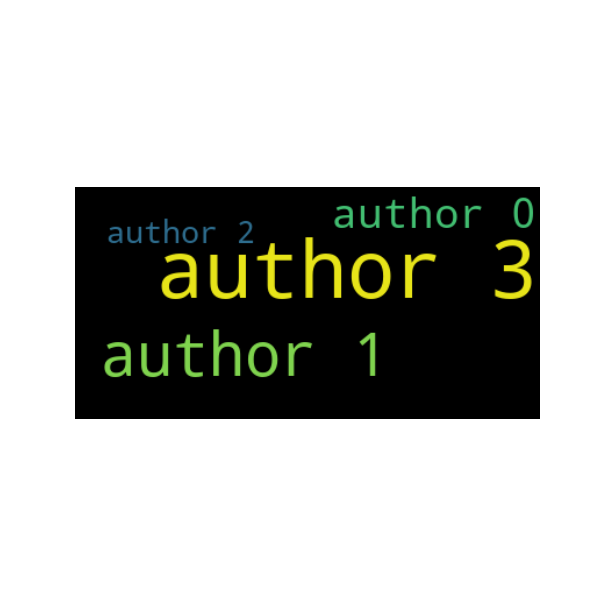
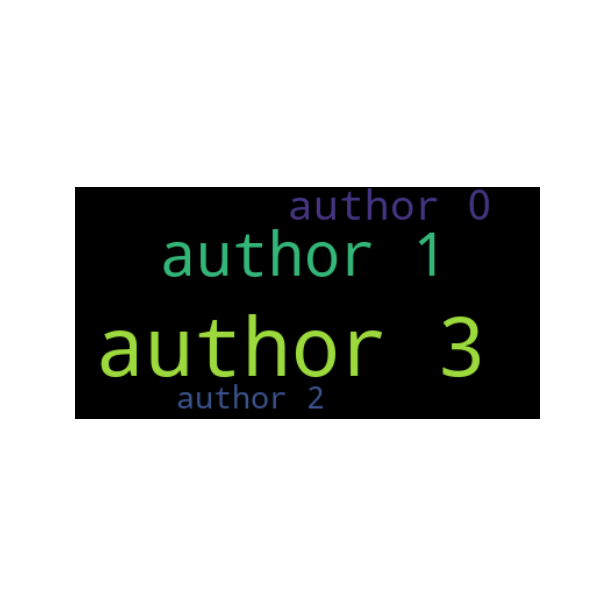
correlation

Changed region(s): [[0.15, 0.3, 0.9, 0.69], [0.72, 0.51, 0.81, 0.63]]

diff --git a/techminer/dataframe.py b/techminer/dataframe.py
@@ -2446,10 +2446,10 @@ class DataFrame(pd.DataFrame):
 
     def corr(
         self,
-        column_IDX,
-        column_COL=None,
-        sep_IDX=None,
-        sep_COL=None,
+        column,
+        by=None,
+        sep=None,
+        sep_by=None,
         method="pearson",
         as_matrix=True,
         minmax=None,
@@ -2519,62 +2519,88 @@ class DataFrame(pd.DataFrame):
 
 
         >>> DataFrame(df).corr('Authors', 'Author Keywords')
-              a         b         c         d
-        A  0.50 -0.632456 -0.316228 -0.316228
-        B -0.25  0.316228 -0.316228 -0.316228
-        C -0.25  0.316228  0.632456  0.632456
-        D -0.25  0.316228 -0.316228  0.632456
+                  A         B         C         D
+        A  1.000000  1.000000  0.500000  0.707107
+        B  1.000000  1.000000  0.500000  0.707107
+        C  0.500000  0.500000  1.000000  0.707107
+        D  0.707107  0.707107  0.707107  1.000000
 
         >>> DataFrame(df).corr('Authors', 'Author Keywords', minmax=(0.45, 0.8))
-             a         c         d
-        A  0.5  0.000000  0.000000
-        C  0.0  0.632456  0.632456
-        D  0.0  0.000000  0.632456
+                  A         B         C         D
+        A  0.000000  0.000000  0.500000  0.707107
+        B  0.000000  0.000000  0.500000  0.707107
+        C  0.500000  0.500000  0.000000  0.707107
+        D  0.707107  0.707107  0.707107  0.000000
 
         >>> DataFrame(df).corr('Authors', 'Author Keywords', as_matrix=False)
            Authors Author Keywords     value
-        0        A               a  0.500000
-        1        B               a -0.250000
-        2        C               a -0.250000
-        3        D               a -0.250000
-        4        A               b -0.632456
-        5        B               b  0.316228
-        6        C               b  0.316228
-        7        D               b  0.316228
-        8        A               c -0.316228
-        9        B               c -0.316228
-        10       C               c  0.632456
-        11       D               c -0.316228
-        12       A               d -0.316228
-        13       B               d -0.316228
-        14       C               d  0.632456
-        15       D               d  0.632456
+        0        A               A  1.000000
+        1        B               A  1.000000
+        2        C               A  0.500000
+        3        D               A  0.707107
+        4        A               B  1.000000
+        5        B               B  1.000000
+        6        C               B  0.500000
+        7        D               B  0.707107
+        8        A               C  0.500000
+        9        B               C  0.500000
+        10       C               C  1.000000
+        11       D               C  0.707107
+        12       A               D  0.707107
+        13       B               D  0.707107
+        14       C               D  0.707107
+        15       D               D  1.000000
 
         """
-        if column_IDX == column_COL:
+        if column == by:
             return self.autocorr(
-                column=column_IDX,
-                sep=sep_IDX,
+                column=column,
+                sep=sep,
                 method=method,
                 as_matrix=as_matrix,
                 minmax=minmax,
             )
-        tfm_r = self.compute_tfm(column=column_IDX, sep=sep_IDX)
-        tfm_c = self.compute_tfm(column=column_COL, sep=sep_COL)
-        result = pd.DataFrame(
-            [
-                [tfm_r[row].corr(tfm_c[col]) for row in tfm_r.columns]
-                for col in tfm_c.columns
-            ],
-            columns=tfm_c.columns,
-            index=tfm_r.columns,
+
+        tfm = self.co_occurrence(
+            column_IDX=by,
+            column_COL=column,
+            sep_IDX=sep_by,
+            sep_COL=sep,
+            as_matrix=True,
+            minmax=None,
         )
+
+        tfm = tfm.applymap(lambda x: min(1.0, x))
+
+        result = pd.DataFrame(0.0, columns=tfm.columns, index=tfm.columns)
+        for term in tfm.columns:
+            result.at[term, term] = 1.0
+        for i in range(len(tfm.columns) - 1):
+            for j in range(i + 1, len(tfm.columns)):
+                d = pd.DataFrame({"x": tfm[tfm.columns[i]], "y": tfm[tfm.columns[j]]})
+                d = d[(d.x != 0) | (d.y != 0)]
+
+                if len(d) != 0 and sum(d.x * d.y) > 0:
+                    r = relationship(d.x, d.y)
+                    result.at[tfm.columns[i], tfm.columns[j]] = r
+                    result.at[tfm.columns[j], tfm.columns[i]] = r
+
+        ## tfm_r = self.compute_tfm(column=column_IDX, sep=sep_IDX)
+        ## tfm_c = self.compute_tfm(column=column_COL, sep=sep_COL)
+        ## result = pd.DataFrame(
+        ##     [
+        ##         [tfm_r[row].corr(tfm_c[col]) for row in tfm_r.columns]
+        ##         for col in tfm_c.columns
+        ##     ],
+        ##     columns=tfm_c.columns,
+        ##     index=tfm_r.columns,
+        ## )
 
         if as_matrix is False or minmax is not None:
             result = (
                 result.reset_index()
                 .melt("index")
-                .rename(columns={"index": column_IDX, "variable": column_COL})
+                .rename(columns={"index": column, "variable": by})
             )
             if minmax is not None:
                 min_value, max_value = minmax
@@ -2586,8 +2612,8 @@ class DataFrame(pd.DataFrame):
                 result = pd.pivot_table(
                     result,
                     values="value",
-                    index=column_IDX,
-                    columns=column_COL,
+                    index=column,
+                    columns=by,
                     fill_value=float(0.0),
                 )
                 result.columns = result.columns.tolist()
